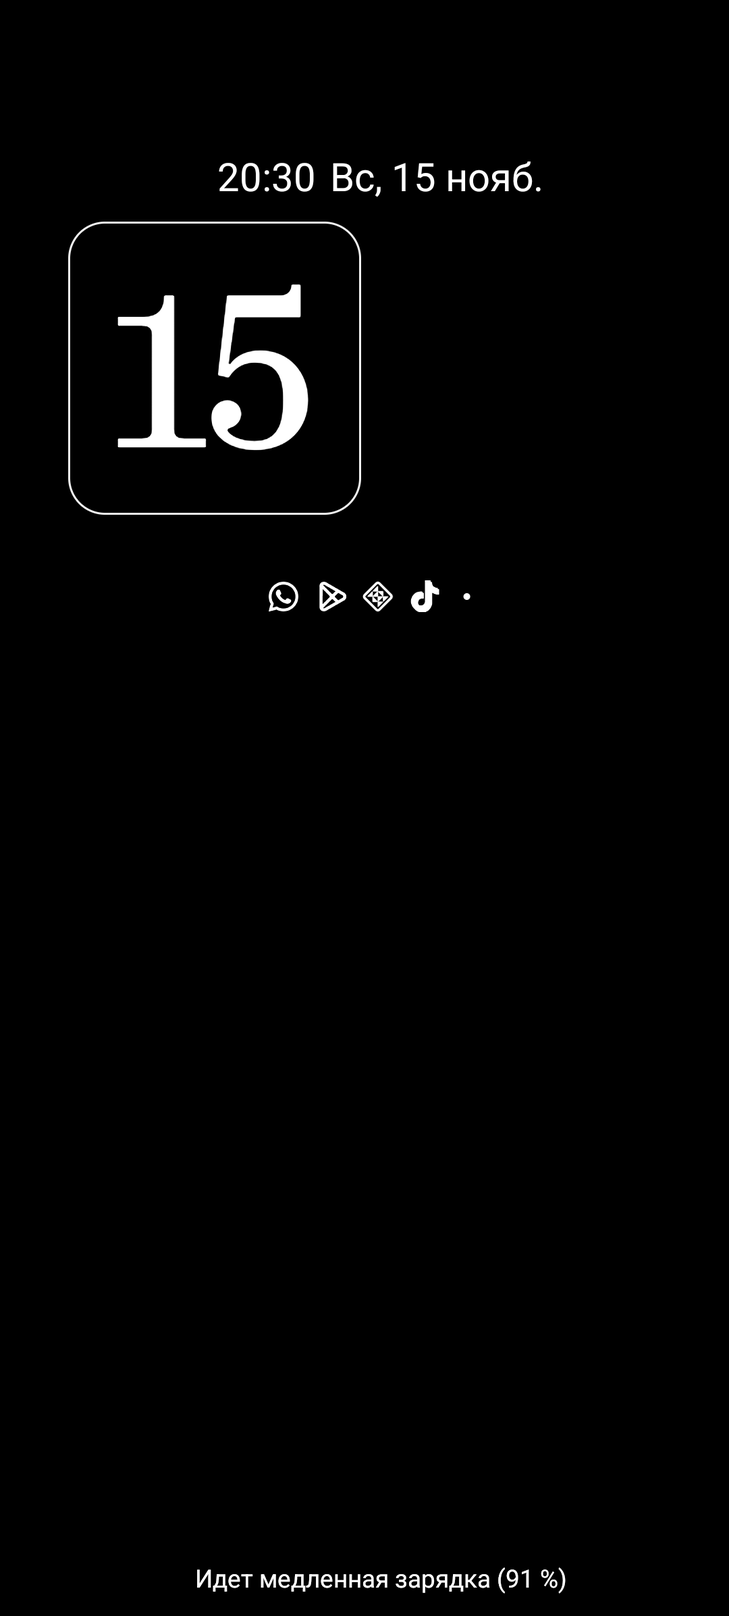
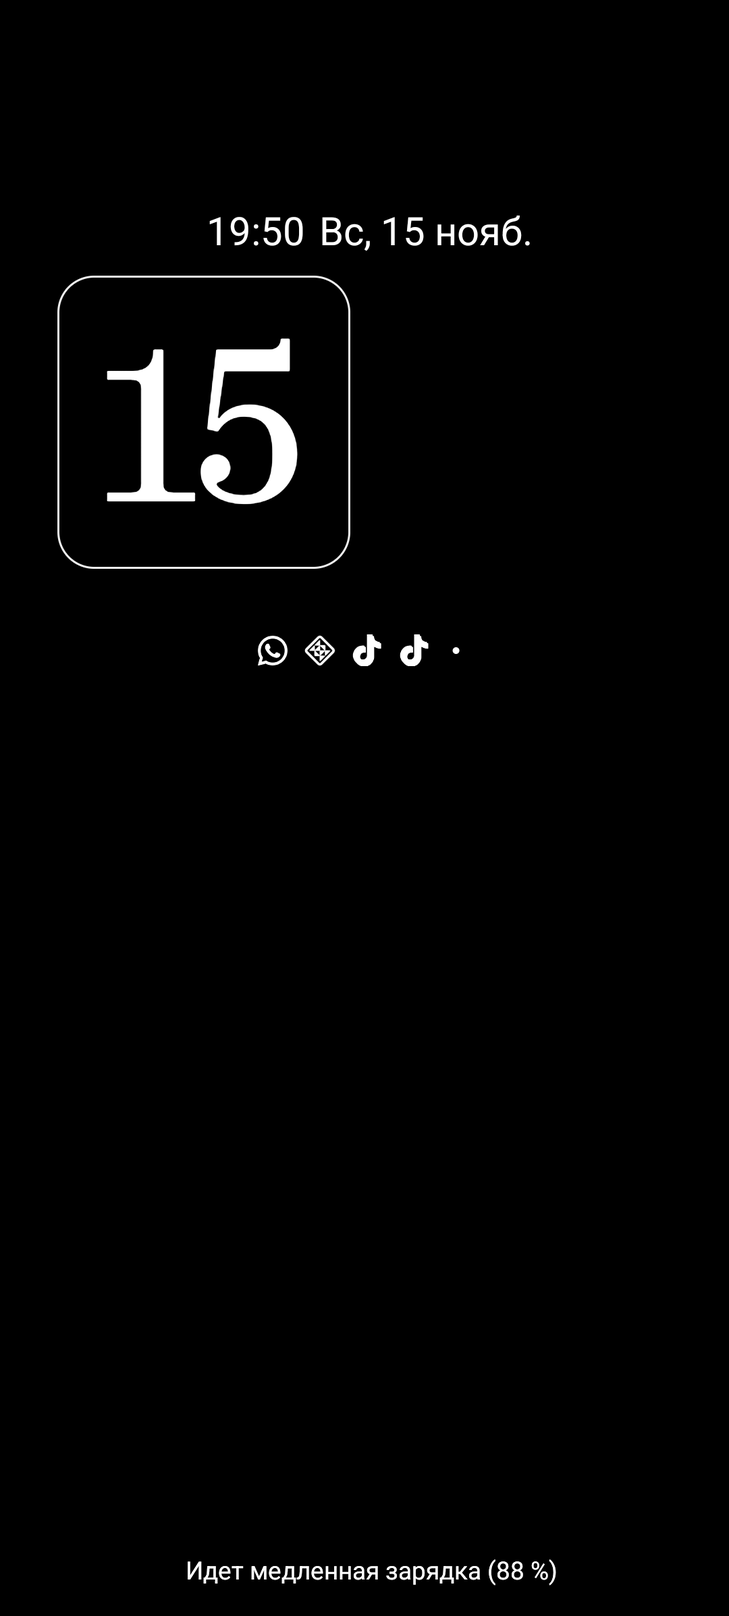
docs: enrich visual gallery and polish bilingual presentation

diff --git a/README.md b/README.md
@@ -1,188 +1,180 @@
 <div align="center">
 
-<img src="https://raw.githubusercontent.com/copilotfather/cmf-buds-pro-2-manager/main/app/src/main/res/drawable/cmf_case_dial.png" width="120" alt="CMF Smart Dial Logo" />
+<img src="https://raw.githubusercontent.com/copilotfather/cmf-buds-pro-2-manager/main/app/src/main/res/drawable/cmf_case_dial.png" width="130" alt="CMF Smart Dial Logo" />
 
-# CMF Buds Pro 2 Manager
+# 🔘 CMF Buds Pro 2 Manager
 
-### The Definitive Audio Suite & Controller for CMF Buds Pro 2
-
-[![Latest Release](https://img.shields.io/github/v/release/copilotfather/cmf-buds-pro-2-manager?color=FF5722&label=RELEASE&style=for-the-badge&logo=android)](https://github.com/copilotfather/cmf-buds-pro-2-manager/releases)
-[![APK Size](https://img.shields.io/badge/APK%20Size-11.0%20MB-30D158?style=for-the-badge&logo=googleplay)](https://github.com/copilotfather/cmf-buds-pro-2-manager/releases)
-[![License](https://img.shields.io/badge/License-MIT-0A84FF?style=for-the-badge)](LICENSE)
-[![Platform](https://img.shields.io/badge/Platform-Android%208.0%2B-FF9F0A?style=for-the-badge&logo=android)](https://www.android.com)
-[![UI Style](https://img.shields.io/badge/UI-Liquid%20Gray%20Glass-BF5AF2?style=for-the-badge)](README.md)
-
-<br/>
+### *Next-Generation Studio Audio Controller & Hardware Utility for Nothing CMF Buds Pro 2*
 
 <p align="center">
-  <b><a href="#-english">English Documentation</a></b> • 
-  <b><a href="#-русский">Русская Документация</a></b> • 
-  <b><a href="https://github.com/copilotfather/cmf-buds-pro-2-manager/releases/latest">Download APK</a></b>
+  <a href="https://github.com/copilotfather/cmf-buds-pro-2-manager/releases"><img src="https://img.shields.io/github/v/release/copilotfather/cmf-buds-pro-2-manager?color=FF3B30&label=RELEASE&style=for-the-badge&logo=android" alt="Latest Release" /></a>
+  <a href="https://github.com/copilotfather/cmf-buds-pro-2-manager/releases"><img src="https://img.shields.io/badge/APK%20Size-11.0%20MB-34C759?style=for-the-badge&logo=googleplay" alt="APK Size" /></a>
+  <a href="LICENSE"><img src="https://img.shields.io/badge/License-MIT-007AFF?style=for-the-badge" alt="License" /></a>
+  <img src="https://img.shields.io/badge/Architecture-Kotlin%20%7C%20Compose-AF52DE?style=for-the-badge&logo=kotlin" alt="Tech Stack" />
+  <img src="https://img.shields.io/badge/Design-Liquid%20Gray%20Glass-FF9500?style=for-the-badge" alt="Design System" />
 </p>
 
 <br/>
 
+<p align="center">
+  <b><a href="#-english-documentation">English Documentation</a></b> • 
+  <b><a href="#-русская-документация">Русская Документация</a></b> • 
+  <b><a href="https://github.com/copilotfather/cmf-buds-pro-2-manager/releases/latest">⚡ Download Latest APK</a></b>
+</p>
+
+<br/>
+
+---
+
+### 📸 Visual Showcase & Interface Gallery
+
 <table>
   <tr>
-    <td align="center"><b>📱 Overview Stage</b></td>
-    <td align="center"><b>📊 Deep Analytics</b></td>
+    <td align="center" width="25%"><b>💎 Overview & Control</b></td>
+    <td align="center" width="25%"><b>📊 Deep Analytics</b></td>
+    <td align="center" width="25%"><b>🎛 Studio Master EQ</b></td>
+    <td align="center" width="25%"><b>🛠 Hardware Tools</b></td>
   </tr>
   <tr>
-    <td><img src="docs/screenshots/overview_preview.png" width="340" alt="Overview UI" /></td>
-    <td><img src="docs/screenshots/analytics_preview.png" width="340" alt="Analytics UI" /></td>
+    <td align="center"><img src="docs/screenshots/overview_preview.png" width="230" alt="Overview Stage" /></td>
+    <td align="center"><img src="docs/screenshots/analytics_preview.png" width="230" alt="Analytics Dashboard" /></td>
+    <td align="center"><img src="docs/screenshots/sound_preview.png" width="230" alt="Studio Master Equalizer" /></td>
+    <td align="center"><img src="docs/screenshots/tools_preview.png" width="230" alt="Hardware Diagnostics & Tools" /></td>
   </tr>
 </table>
+
+---
 
 </div>
 
----
+<br/>
 
-<a name="-english"></a>
-## 🇬🇧 English Overview
+<a name="-english-documentation"></a>
+## 🇬🇧 English Documentation
 
-CMF Buds Pro 2 Manager is a modern, high-performance Android utility engineered specifically for the **CMF Buds Pro 2** earphones ecosystem by Nothing. Built entirely with Jetpack Compose and modern Android architecture components, it pairs **hardware-level direct protocol communication** with an aesthetic **Liquid Gray Glass** design.
+**CMF Buds Pro 2 Manager** is an independent, high-performance companion app engineered from the ground up for Nothing's flagship **CMF Buds Pro 2** earphones. By leveraging **direct low-level Bluetooth protocol packets (SPP / BES RFCOMM)**, it provides audiophile-tier control, hardware switching, and real-time telemetry not available in stock companion software.
 
-### 💎 Feature Showcase
-
-<table>
-  <tr>
-    <td width="50%">
-      <h3>🌫 Liquid Gray Glass Interface</h3>
-      <ul>
-        <li><b>Smoked Glass Cards:</b> Dual-layer translucent surfaces with specular rim lighting (high-refraction edges).</li>
-        <li><b>Hardware Fluidity:</b> 60 / 120 Hz render pipeline with zero frame drops.</li>
-        <li><b>Floating Island Navigation:</b> Minimalist frosted pill bar with responsive active glow.</li>
-      </ul>
-    </td>
-    <td width="50%">
-      <h3>📡 Hi-Res Codec Engine</h3>
-      <ul>
-        <li><b>Sony LDAC:</b> High-resolution transmission up to 990 kbps (24-bit / 96 kHz).</li>
-        <li><b>Hardware Switching:</b> Sends direct DSP initialization packets (<code>0xF05A</code>) straight to the earbuds.</li>
-        <li><b>Broad Support:</b> LHDC V5, Qualcomm aptX HD / Adaptive, AAC, SBC.</li>
-      </ul>
-    </td>
-  </tr>
-  <tr>
-    <td width="50%">
-      <h3>📊 Deep Usage Analytics</h3>
-      <ul>
-        <li><b>Volume Distribution:</b> Time logged across Low (0–30%), Mid (31–70%), and High (71–100%) sound levels.</li>
-        <li><b>Activity Histogram:</b> Day-by-day weekly breakdown with top peak days and favorite hours.</li>
-        <li><b>Hardware Counters:</b> Daily & cumulative case lid open counter.</li>
-        <li><b>Battery Longevity:</b> Empirical 100% full charge duration and battery health index.</li>
-      </ul>
-    </td>
-    <td width="50%">
-      <h3>🎛 Studio Master EQ</h3>
-      <ul>
-        <li><b>Live Bezier Curve:</b> Real-time frequency response curve rendered on hardware Canvas.</li>
-        <li><b>5-Band Discrete Tuning:</b> 60 Hz, 230 Hz, 910 Hz, 3.6 kHz, 14 kHz with ±1 dB precision.</li>
-        <li><b>Pro Presets:</b> Reference, Basshead 808, Vocal Clarity, Electronic, Rock & Metal, Acoustic.</li>
-      </ul>
-    </td>
-  </tr>
-</table>
-
-### 🚀 Additional Hardware Utilities
-
-- 🛡 **Continuous ANC Slider**: Off, Transparency, Active Noise Cancellation (up to 50 dB depth + Ambient Mic Auto-ANC).
-- 🔊 **Ultra Bass Stepper**: Instant multi-level bass boost (Levels 0 to 5).
-- 🎚 **Smart Dial Customization**: Custom actions for dial rotation and clicks.
-- 💧 **Sonic Water Eject**: High-amplitude 140–180 Hz resonant acoustic sweeps to clear moisture from driver meshes.
-- 📍 **Find My Buds (Sonar)**: High-pitch dual-tone acoustic locator + last-seen GPS disconnect logging.
-- 💻 **Ultra Low-Latency PC Audio Relay**: Stream high-definition PC audio to earbuds over Wi-Fi or USB.
+Designed according to the proprietary **Liquid Gray Glass** design specification: smoked translucent acrylic textures, four-corner specular light refraction, smooth GPU transitions, and 120Hz micro-interactions.
 
 ---
 
-### 📦 Quick Start (Installation)
+### ✨ Core Capabilities
 
-```markdown
-1. Head over to the [Releases](https://github.com/copilotfather/cmf-buds-pro-2-manager/releases) page.
-2. Download the latest `CMF_Buds_Pro_2_Manager.apk`.
-3. Open the downloaded file on your Android device and install.
-```
+#### 🌫 1. Liquid Gray Glass Design System
+* **Smoked Acrylic Geometry:** Dark smoked glass surfaces (`#1A1C20` base, 0.55 opacity) with dynamic backdrop blur.
+* **Reflective Rim Lighting:** Multi-point gradient borders mimicking physical glass edges catching ambient light.
+* **High-FPS Rendering Pipeline:** Eliminates recomposition thrashing for zero-stutter 60 / 120 FPS navigation.
+* **Floating Island Navigation:** Minimalist glass pill dock with smooth glow indicators.
+
+#### 📡 2. High-Res Audio Codec Engine
+* **Sony LDAC 990 kbps (24-bit / 96 kHz):** Audiophile bitrates unlocked through direct Android A2DP / Bluetooth codec profile integration.
+* **Hardware Switching via SPP:** Emits direct `0xF05A` vendor opcode sequences to configure the internal BES chipset.
+* **Full Codec Suite:** Native support for LDAC, LHDC V5, Qualcomm aptX HD / Adaptive, AAC, and SBC.
+
+#### 📊 3. Deep Listening & Battery Analytics
+* **SPL Volume Tiers:** Automatic logging of hours spent across *Low (0–30%)*, *Mid (31–70%)*, and *High (71–100%)* decibel levels to protect hearing health.
+* **Weekly Histogram:** Day-by-day playback visualization identifying peak listening days and favorite listening hours.
+* **Case Cycle Counter:** Independent tracking of daily and cumulative case lid open/close events.
+* **Battery Degradation Monitor:** Historical discharge analysis calculating true full-charge endurance and estimated cell health.
+
+#### 🎛 4. Studio Master Equalizer & Soundstage
+* **Live Bezier Spline:** Real-time hardware Canvas frequency response curve reflecting discrete gain shifts.
+* **5-Band Precision Sliders:** 60 Hz (Sub), 230 Hz (Bass), 910 Hz (Mids), 3.6 kHz (Presence), 14 kHz (Air) with ±1 dB steps.
+* **Engineered Presets:** `Reference Studio`, `Basshead 808`, `Vocal Clarity`, `Electronic`, `Rock & Metal`, `Acoustic / Jazz`.
+
+#### 🛡 5. Extended Hardware Suite
+* **Continuous ANC Engine:** Stepless control between *Off*, *Transparency*, and *Active Noise Cancellation* (up to 50 dB depth with auto-adaptive ambient microphones).
+* **Ultra Bass Stepper:** Direct DSP multi-tier bass boost (Levels 0 through 5).
+* **Smart Dial Customization:** Rebind the physical case dial rotary actions and single/double clicks.
+* **Sonic Water Eject:** Dual-frequency 140–180 Hz resonant acoustic sweeps to expel moisture from driver meshes.
+* **Sonar Locator & GPS Log:** Directional ultrasonic buzzer + GPS location memory of the last Bluetooth disconnect.
+* **Low-Latency PC Audio Relay:** Wi-Fi / USB audio bridge for ultra-low latency desktop gaming and video playback.
 
 ---
 
-<a name="-русский"></a>
+### 📥 Installation & Setup
+
+1. Grab the latest standalone APK from the **[Releases](https://github.com/copilotfather/cmf-buds-pro-2-manager/releases)** section.
+2. Install the APK on any device running **Android 8.0 (Oreo) or higher**.
+3. Pair your **CMF Buds Pro 2** via standard Bluetooth settings.
+4. Launch the app — it automatically binds to your earbuds and sets up the hardware link.
+
+---
+
+<br/>
+
+<a name="-русская-документация"></a>
 ## 🇷🇺 Русская Документация
 
-CMF Buds Pro 2 Manager — это флагманский центр управления наушниками **CMF Buds Pro 2** от Nothing. Приложение объединяет **прямой аппаратно-программный протокол управления наушниками** и ультрасовременный интерфейс в стиле **Liquid Gray Glass**.
+**CMF Buds Pro 2 Manager** — это ультимативный центр управления для флагманских TWS-наушников **CMF Buds Pro 2** от Nothing. Приложение взаимодействует с гарнитурой через **низкоуровневые сервисные команды Bluetooth (SPP / BES RFCOMM)**, предоставляя полный доступ к скрытым возможностям чипсета, студийному звуку и глубокой телеметрии.
 
-### 💎 Ключевые возможности
-
-<table>
-  <tr>
-    <td width="50%">
-      <h3>🌫 Дизайн Liquid Gray Glass</h3>
-      <ul>
-        <li><b>Дымчатое серое стекло:</b> Матовые полупрозрачные карточки с четырёхточечными зеркальными бликами по контуру (specular reflection).</li>
-        <li><b>Аппаратная плавность:</b> Оптимизированный GPU-конвейер со стабильными 60 / 120 FPS без лагов.</li>
-        <li><b>Парящий стеклянный остров:</b> Лаконичный нижний бар с деликатной неоновой подсветкой.</li>
-      </ul>
-    </td>
-    <td width="50%">
-      <h3>📡 Hi-Res Аудиокодеки</h3>
-      <ul>
-        <li><b>Sony LDAC:</b> Студийный звук до 990 кбит/с (24 бит / 96 кГц) для аудиофильского звучания.</li>
-        <li><b>Аппаратное переключение:</b> Отправка служебного пакета инициализации (<code>0xF05A</code>) прямо на чипсет наушников.</li>
-        <li><b>Полный набор:</b> LHDC V5, Qualcomm aptX HD / Adaptive, AAC, SBC.</li>
-      </ul>
-    </td>
-  </tr>
-  <tr>
-    <td width="50%">
-      <h3>📊 Глубокая Аналитика</h3>
-      <ul>
-        <li><b>Распределение громкости:</b> Точный замер минут на тихой (0–30%), средней (31–70%) и высокой (71–100%) громкости.</li>
-        <li><b>Гистограмма недели:</b> Наглядная активность по дням с подсветкой пиковых дней и любимого времени суток.</li>
-        <li><b>Счётчик открытий кейса:</b> Учёт открытий крышки за сегодня и суммарно за всё время.</li>
-        <li><b>Автономность и ресурс АКБ:</b> Расчёт средней работы от 100% и оценка износа аккумулятора.</li>
-      </ul>
-    </td>
-    <td width="50%">
-      <h3>🎛 Студийный Мастер-Эквалайзер</h3>
-      <ul>
-        <li><b>Живая кривая Безье:</b> Интерактивный график частотного отклика на GPU Canvas.</li>
-        <li><b>5-полосная точная настройка:</b> 60 Гц, 230 Гц, 910 Гц, 3.6 кГц, 14 кГц с шагом ±1 dB.</li>
-        <li><b>Аудиофильские пресеты:</b> Reference, Basshead 808, Vocal Clarity, Electronic, Rock & Metal, Acoustic.</li>
-      </ul>
-    </td>
-  </tr>
-</table>
-
-### 🚀 Аппаратный инструментарий
-
-- 🛡 **Слайдер шумоподавления**: Выкл, Прозрачность, Шумодав (до 50 дБ) + адаптивный авто-ANC по внешнему микрофону.
-- 🔊 **Ultra Bass**: 6 ступеней аппаратного усиления баса (0–5).
-- 🎚 **Smart Dial**: Назначение действий на колесико кейса (вращение и клики).
-- 💧 **Выталкивание воды (Sonic Water Eject)**: Резонансная акустическая волна 140–180 Гц для выдувания капель воды из сеток.
-- 📍 **Поиск наушников (Sonar)**: Громкий поисковый свист + сохранение координат разрыва связи.
-- 💻 **ПК Аудио Мост**: Прямая трансляция звука с компьютера на наушники через Wi-Fi/USB.
+Интерфейс спроектирован по эстетике **Liquid Gray Glass**: дымчатый матовый акрил, физическая рефракция света по граням, плавная физика без задержек и поддержка экранов 120 Гц.
 
 ---
 
-### 📦 Установка
+### 🌟 Ключевой функционал
 
-1. Перейдите в раздел [Релизы (Releases)](https://github.com/copilotfather/cmf-buds-pro-2-manager/releases).
-2. Загрузите файл `CMF_Buds_Pro_2_Manager.apk`.
-3. Запустите файл на смартфоне (требуется Android 8.0 или новее).
+#### 🌫 1. Эстетика Liquid Gray Glass
+* **Дымчатое серое стекло:** Матовые полупрозрачные карточки с благородным графитовым оттенком и динамическим размытием.
+* **Зеркальная огранка (Specular Refraction):** Градиентные световые блики по контурам элементов, создающие эффект объёмного стекла.
+* **Аппаратная оптимизация:** Исключены тяжёлые пружинные анимации — идеально ровные 60 / 120 кадров в секунду.
+* **Парящий стеклянный остров:** Лаконичная нижняя панель навигации с деликатной подсветкой активного экрана.
+
+#### 📡 2. Модуль Hi-Res Аудиокодеков
+* **Sony LDAC 990 кбит/с (24 бит / 96 кГц):** Максимальное качество передачи аудио без потерь через прямое переключение A2DP профилей Android.
+* **Аппаратное переключение через SPP:** Прямая посылка служебных пакетов `0xF05A` в аудиочип BES гарнитуры.
+* **Полный спектр кодеков:** Поддержка LDAC, LHDC V5, Qualcomm aptX HD / Adaptive, AAC и SBC.
+
+#### 📊 3. Аналитика прослушивания и батареи
+* **Анализ громкости (SPL):** Подсчёт времени на тихой (0–30%), средней (31–70%) и высокой (71–100%) громкости для защиты слуха.
+* **Гистограмма за неделю:** Детальный график активности по дням с выявлением пиковых дней и любимого времени суток.
+* **Счётчик циклов кейса:** Независимый счётчик открытий крышки за текущий день и суммарно за всё время.
+* **Ресурс аккумулятора:** Расчёт среднего времени автономной работы от 100% заряда и мониторинг износа аккумулятора.
+
+#### 🎛 4. Студийный Мастер-Эквалайзер
+* **Живая сплайн-кривая Безье:** Аппаратный рендеринг частотной характеристики в реальном времени.
+* **5-полосная прецизионная настройка:** 60 Гц (саб), 230 Гц (бас), 910 Гц (середина), 3.6 кГц (презенс), 14 кГц (воздух) с шагом ±1 dB.
+* **Аудиофильские пресеты:** `Reference Studio`, `Basshead 808`, `Vocal Clarity`, `Electronic`, `Rock & Metal`, `Acoustic / Jazz`.
+
+#### 🛡 5. Аппаратные инструменты и безопасность
+* **Бесступенчатый шумодав:** Выкл, Режим прозрачности, Активное шумоподавление (до 50 дБ с автоподстройкой под окружающий шум).
+* **Усилитель баса Ultra Bass:** 6 уровней аппаратного алгоритма усиления низких частот (0–5).
+* **Настройка Smart Dial:** Переназначение колесика на кейсе (вращение, одинарный, двойной клик).
+* **Выталкивание воды (Sonic Eject):** Акустические колебания 140–180 Гц для безопасного удаления влаги из звуководов.
+* **Поиск наушников (Sonar):** Ультразвуковой звуковой маяк + автоматическое сохранение координат GPS в точке разрыва связи.
+* **Аудиомост с ПК:** Прямая трансляция звука с компьютера на наушники через Wi-Fi или USB с ультранизкой задержкой.
 
 ---
 
-## 🏗 Сборка из исходников
+### 📦 Быстрая установка
+
+1. Скачайте актуальный файл `.apk` со страницы **[Релизов (Releases)](https://github.com/copilotfather/cmf-buds-pro-2-manager/releases)**.
+2. Установите приложение на телефон под управлением **Android 8.0 или новее**.
+3. Подключите **CMF Buds Pro 2** в настройках Bluetooth.
+4. Откройте приложение — статус подключения и все параметры синхронизируются мгновенно.
+
+---
+
+### 🛠 Сборка из исходников
 
 ```bash
+# Клонирование репозитория
 git clone https://github.com/copilotfather/cmf-buds-pro-2-manager.git
 cd cmf-buds-pro-2-manager
+
+# Сборка Release APK
 ./gradlew assembleRelease
 ```
 
+Собранный файл будет находиться по пути:  
+`app/build/outputs/apk/release/app-release.apk`
+
 ---
 
-## 📜 License / Лицензия
+### 📜 Лицензия / License
 
-This project is licensed under the **MIT License** — see the [LICENSE](LICENSE) file for details.
-<br/>
-Developed with passion by **[copilotfather](https://github.com/copilotfather)**.
+Распространяется по лицензии **MIT License**. Подробнее см. в файле [LICENSE](LICENSE).
+
+<div align="center">
+  <sub>Создано с любовью для сообщества Nothing & CMF • Maintainer: <b><a href="https://github.com/copilotfather">copilotfather</a></b></sub>
+</div>
